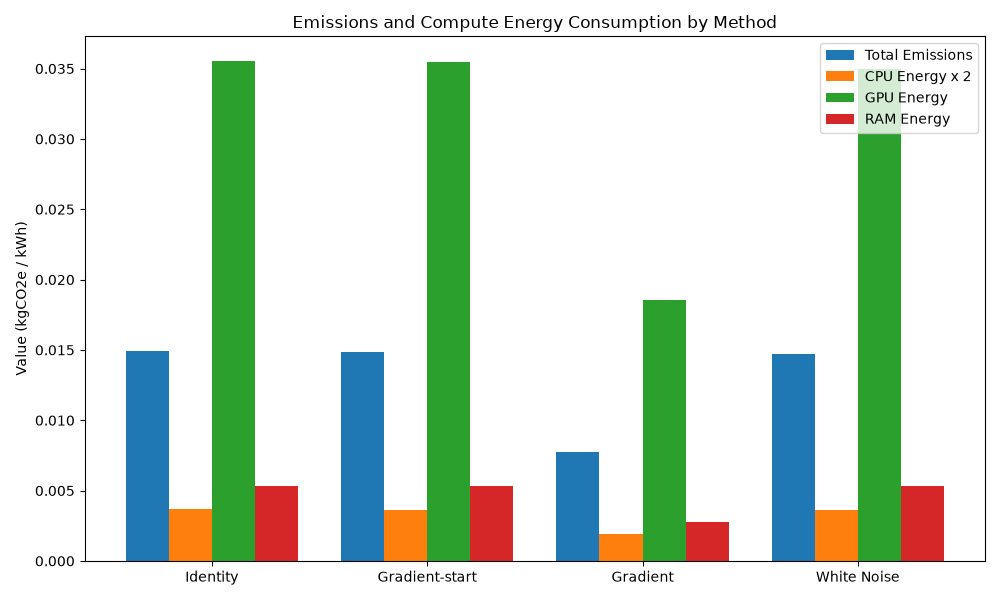
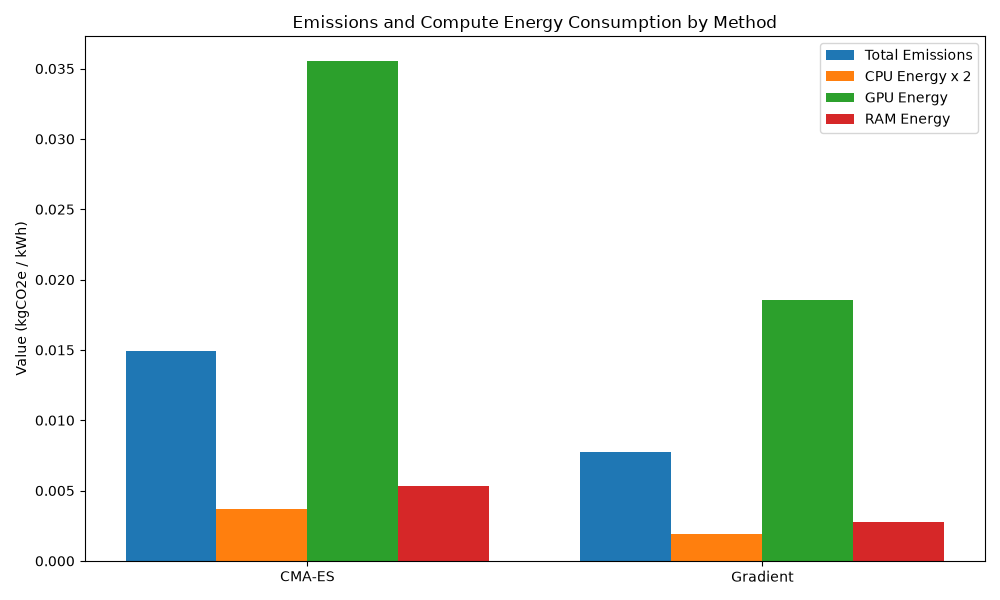
new emissions

Changed region(s): [[0.155, 0.09, 0.527, 0.99], [0.558, 0.09, 0.961, 0.99]]

diff --git a/ProjectNaCo/FinalReport/FinalReport.tex b/ProjectNaCo/FinalReport/FinalReport.tex
@@ -296,6 +296,38 @@ Thus, when analyzing the loss per iteration or per cumulative NCA state-step, th
     \label{fig:other-loss-plot}
 \end{figure}
 
+To contextualize the computational cost and environmental footprint of different methods, we tracked carbon emissions and energy consumption 
+during the optimization process. For a fair comparison of convergence efficiency, each method was run until it reached a target log10 loss of -2.5.
+
+As detailed in Table \ref{tab:emissions-metrics} and illustrated in Figure \ref{fig:emissions-plot}, the gradient approach is substantially more 
+efficient. It successfully reached the target loss in roughly half the time and consumed approximately half the overall energy compared to the 
+evolutionary approach. 
+% In contrast, all of the evolutionary approaches exhausted the 600-generation limit with the white noise initialization far from
+% crossing the -2.5 threshold.
+\begin{table}[H]
+    \centering
+	\resizebox{\linewidth}{!}{
+    \begin{tabular}{lrrr}
+        \hline
+        Method & Emissions &Duration & Energy \\ 
+		\hline
+        CMA-ES & 0.015 & 1994.738 & 0.043 \\
+        % Gradient-start & 0.015 & 1981.945 & 0.043 \\
+        Gradient & 0.008 & 1024.074 & 0.022 \\
+        % White Noise & 0.015 & 1975.147 & 0.042 \\ 
+		\hline
+    \end{tabular}}
+    \caption{Environmental impact and computational cost of the evolutionary strategy and the gradient baseline. The table presents total carbon emissions in kgCO$_2$e, optimization duration in seconds, and overall energy consumed in kWh.}
+    \label{tab:emissions-metrics}
+\end{table}
+
+\begin{figure}[H]
+    \centering
+    \includegraphics[width=1\linewidth]{"optona & comparison output/emissions_plot"}
+    \caption{Comparison of total carbon emissions and energy consumption breakdown (CPU, GPU, and RAM) across the evaluated methods.}
+    \label{fig:emissions-plot}
+\end{figure}
+
 \begin{figure}[H]
 	\centering
 	\includegraphics[width=1\linewidth]{"optona & comparison output/goal_evolved_backprop"}
@@ -405,37 +437,6 @@ Instead of starting from identity as attack matrix, we also tried starting from 
     \caption{Quantitative comparison of evaluation metrics across different attack initializations and the gradient baseline. Higher SSIM, lower LPIPS, lower 2D-FFT, and lower TSS indicate better visual fidelity to the target image.}
     \label{tab:quantitative-metrics}
 \end{table}
-
-To contextualize the computational cost and environmental footprint of our adversarial methods, we tracked carbon emissions and energy consumption 
-during the optimization process. For a fair comparison of convergence efficiency, each method was run until it reached a target log10 loss of -2.5 
-or hit a strict ceiling of 600 generations. Because of these stopping criteria, the overall optimization durations, and the total energy consumed, 
-vary significantly across the different runs.
-
-As detailed in Table \ref{tab:emissions-metrics} and illustrated in Figure \ref{fig:emissions-plot}, the gradient approach is substantially more 
-efficient. It successfully reached the target loss in roughly half the time and consumed approximately half the overall energy compared to the 
-CMA-ES methods. In contrast, all of the evolutionary approaches exhausted the 600-generation limit with the white noise initialization far from
-crossing the -2.5 threshold.
-\begin{table}[H]
-    \centering
-	\resizebox{\linewidth}{!}{
-    \begin{tabular}{lrrr}
-        \hline
-        Method & Emissions &Duration & Energy \\ \hline
-        Identity & 0.015 & 1994.738 & 0.043 \\
-        Gradient-start & 0.015 & 1981.945 & 0.043 \\
-        Gradient & 0.008 & 1024.074 & 0.022 \\
-        White Noise & 0.015 & 1975.147 & 0.042 \\ \hline
-    \end{tabular}}
-    \caption{Environmental impact and computational cost of the different attack initializations and the gradient baseline. The table presents total carbon emissions in kgCO$_2$e, optimization duration in seconds, and overall energy consumed in kWh.}
-    \label{tab:emissions-metrics}
-\end{table}
-
-\begin{figure}[H]
-    \centering
-    \includegraphics[width=1\linewidth]{"optona & comparison output/emissions_plot"}
-    \caption{Comparison of total carbon emissions and energy consumption breakdown (CPU, GPU, and RAM) across the evaluated methods.}
-    \label{fig:emissions-plot}
-\end{figure}
 
 \subsection*{Different Fitness Functions}
 Table \ref{tab:losses} displays the evaluation metrics for the explored fitness functions. 

diff --git a/ProjectNaCo/Codee/emissions.py b/ProjectNaCo/Codee/emissions.py
@@ -7,10 +7,10 @@ df = pd.read_csv('emissions.csv')
 
 # 2. Map original project names to the ones used in the report
 name_map = {
-    'Phase_2_identity': 'Identity',
-    'Phase_2_gradient-start': 'Gradient-start',
+    'Phase_2_identity': 'CMA-ES',
+    # 'Phase_2_gradient-start': 'Gradient-start',
     'Phase_1_Gradient': 'Gradient',
-    'Phase_2_random': 'White Noise'
+    # 'Phase_2_random': 'White Noise'
 }
 
 # Filter and rename
@@ -20,7 +20,7 @@ df_filtered['Method'] = df_filtered['project_name'].map(name_map)
 # Ensure the categorical order matches the report
 df_filtered['Method'] = pd.Categorical(
     df_filtered['Method'], 
-    categories=['Identity', 'Gradient-start', 'Gradient', 'White Noise'], 
+    categories=['CMA-ES', 'Gradient'], 
     ordered=True
 )
 df_filtered = df_filtered.sort_values('Method')
